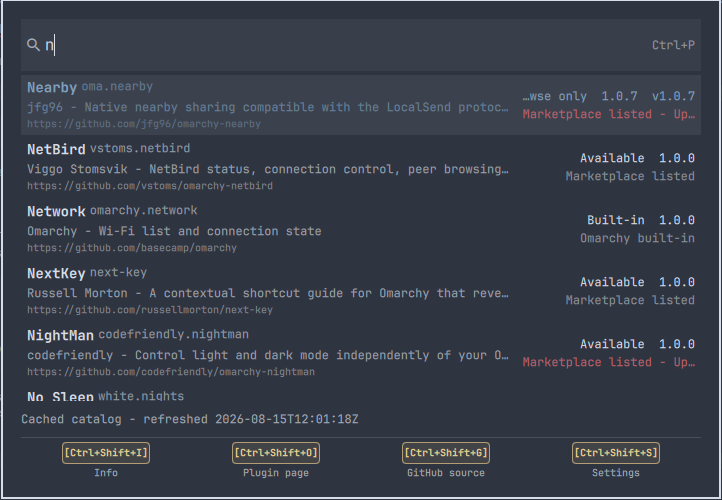
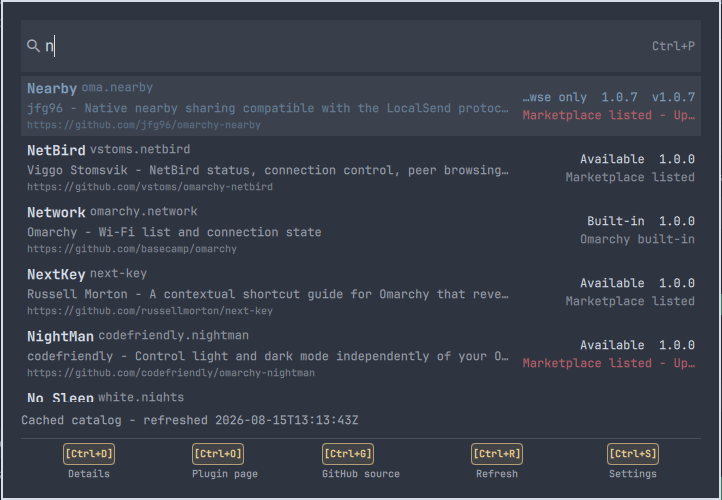
build: release plugin control 0.1.5 (#8)

diff --git a/COMPLETION_AUDIT.md b/COMPLETION_AUDIT.md
@@ -1,6 +1,6 @@
 # Plugin Control completion audit
 
-This audit records evidence for version 0.1.4 of
+This audit records evidence for version 0.1.5 of
 `io.github.ilyazar.plugin-control` on 15 August 2026.
 
 ## Product and repository
@@ -27,13 +27,18 @@ This audit records evidence for version 0.1.4 of
 - [x] Warm latency. Ten repeated shell toggles measured 38-57 ms command
   round-trip, median 47 ms and worst 57 ms. Final focus-ready measurements
   were 4-13 ms.
-- [x] Filtering latency. Final live filtering measured 1-3 ms against 188
-  merged records. Five thousand synthetic records averaged 3.1 ms per fuzzy
-  query, while 10,000 averaged 10.7 ms.
+- [x] Filtering latency. Final live filtering measured 1-3 ms; the current
+  merged catalog held 207 records. Five thousand synthetic records averaged
+  3.1 ms per fuzzy query, while 10,000 averaged 10.7 ms.
 - [x] Refresh measurement. Ten persistent snapshot reads measured 9-24 ms,
   median 11.5 ms. Seven local installed-state rebuilds measured 413-572 ms,
   median 490 ms. A forced conditional network refresh spent 258 ms in channel
-  refresh work and completed end to end in 830 ms.
+  refresh work and completed end to end in 830 ms. The final public-catalog
+  refresh spent 279 ms in channel work.
+- [x] Large snapshot assembly. The live 203-record marketplace cache exceeded
+  Linux's per-argument limit in the former in-memory jq handoff. Snapshot JSON
+  now moves through private runtime files; a 400-record, 300 KB fixture proves
+  the same path without large command-line arguments.
 - [x] Hidden cost. `keepLoaded` is true. The service has no rapid timer; the
   only resident polling is the shared binding helper's ten-second Hyprland
   state check and action-status polling while an action is running.
@@ -49,8 +54,8 @@ This audit records evidence for version 0.1.4 of
   completion data, and the Backspace transition.
 - [x] Source merging. Tests prove local-over-marketplace and
   built-in-over-marketplace precedence plus repository-collision diagnostics.
-- [x] Listed marketplace. The live normalized cache held 172 records: 125
-  installable, 36 built-in, and 0 normalization errors. All 136 community IDs
+- [x] Listed marketplace. The live normalized cache held 203 records: 156
+  installable, 36 built-in, and 0 normalization errors. All 167 community IDs
   matched the website catalog exactly and were reachable through exact-ID
   fuzzy search; the remaining 11 community entries stayed browse-only.
 - [x] Offline behavior. Malformed, failed, oversized, and unchanged catalog
@@ -60,7 +65,7 @@ This audit records evidence for version 0.1.4 of
 
 ## Settings and channels
 
-- [x] Settings editor. Ctrl+Shift+S opens an inline three-row menu. Typing is
+- [x] Settings editor. Ctrl+S opens an inline three-row menu. Typing is
   consumed; `j`/`k`, arrows, mouse, Enter, Escape, and Cancel route through
   `scripts/open-settings.sh` to the validated plugin YAML, the exact Plugin
   Control entry in `bindings.lua`, or back to the open palette.
@@ -93,14 +98,16 @@ This audit records evidence for version 0.1.4 of
   interactive terminal, plus `omarchy plugin remove local.test --yes`.
   Built-in actions use native enable, disable, and bar placement commands.
 - [x] Confirmation safety. Enter opens a keyboard-cancel-first dialog only for
-  an available action. Ctrl+Shift+I reuses it as a non-mutating information
+  an available action. Ctrl+D reuses it as a non-mutating information
   view, and browse-only Enter is inert. The action path pins a copy of the
   displayed record and its snapshot ID; backend execution requires that exact
   snapshot to remain current.
 - [x] Remote command isolation. Fixtures include a hostile remote command
   string; it is never executed or interpolated into a shell.
-- [x] Self-removal protection. Both the model and backend exclude or reject the
-  active Plugin Control ID.
+- [x] Guarded self-removal. `plug-remove:` and the bar popup share one
+  snapshot-pinned, No-first warning. The staged worker survives checkout
+  deletion, invalidates the derived snapshot, preserves user state, and treats
+  a post-deletion shell-rescan error as materially complete.
 - [x] Dirty-checkout protection. Removal is blocked before the native remove
   command when Git reports local changes.
 - [x] Path containment. IDs reject traversal and removal requires the exact
@@ -124,9 +131,9 @@ This audit records evidence for version 0.1.4 of
 ## UI and local integration
 
 - [x] Bar launcher. The single native package glyph opens the existing overlay
-  on left click, defaults to the right section, and exposes exactly one
-  Settings item on right click. A hidden setting collapses both visibility and
-  implicit size while leaving the plugin service enabled.
+  on left click, defaults to the right section, and exposes Settings plus
+  Remove Plugin Control on right click. A hidden setting collapses visibility
+  and implicit size while leaving the plugin service enabled.
 - [x] Shell lifecycle. The overlay exposes `opened`, `open`, `close`, and
   `toggle`, and is summoned through the existing shell endpoint. No competing
   Quickshell process is used in production.
@@ -138,11 +145,11 @@ This audit records evidence for version 0.1.4 of
 - [x] Ctrl+P toggle. The effective Hyprland binding description is `Plugin
   Control`, key P, modifier mask 4. The focused field also handles Ctrl+P as a
   defensive close path.
-- [x] Footer shortcuts. A top rule separates four equal-width shortcut cells;
-  their bracketed keys use the active theme's yellow. Ctrl+Shift+I opens
-  plugin information, Ctrl+Shift+O and Ctrl+Shift+G follow the selected plugin
-  or fall back to the marketplace, and Ctrl+Shift+S opens the settings
-  selector. These fixed controls are handled only by the focused palette.
+- [x] Footer shortcuts. A top rule separates five equal-width shortcut cells;
+  their bracketed keys use the active theme's yellow. Ctrl+D opens plugin
+  details, Ctrl+O and Ctrl+G follow the selected plugin or fall back to the
+  marketplace, Ctrl+R refreshes, and Ctrl+S opens settings. These fixed
+  controls are handled only by the focused palette.
 - [x] Visual smoke test. The live panel appeared top-centered below the bar on
   focused monitor VGA-1, with immediate cursor focus, compact left-aligned
   rows, theme tokens, source/status metadata, and a short dropdown animation.
@@ -181,7 +188,7 @@ ShellCheck reported no findings. The publishing preflight reported 0 errors.
 - [x] Existing user config was preserved. Plugin-owned config, cache, state,
   and runtime paths are separate and documented.
 - [x] Native removal intentionally retains user-owned settings and
-  cache; the README gives explicit optional cleanup commands.
+  cache; the README identifies the retained paths and user-owned binding.
 - [x] No task-owned command wrote under `/usr/share/omarchy`. This is a
   task-scoped statement because the shared tree had unrelated concurrent
   changes.
@@ -191,6 +198,6 @@ ShellCheck reported no findings. The publishing preflight reported 0 errors.
 - Unauthenticated GitHub API limits apply to the optional issue channel.
 - Only the first 100 open submission issues are considered per refresh.
 - Normal-update integration is not implemented.
-- The two authorized live removal targets were dirty development symlinks, so
-  the palette correctly blocked removal. Mutation behavior was tested with
-  disposable plugin directories and mocked native commands.
+- The final self-removal smoke used a dirty development symlink, so the palette
+  correctly blocked the live mutation. The complete lifecycle was exercised
+  with disposable plugin directories and mocked native commands.
